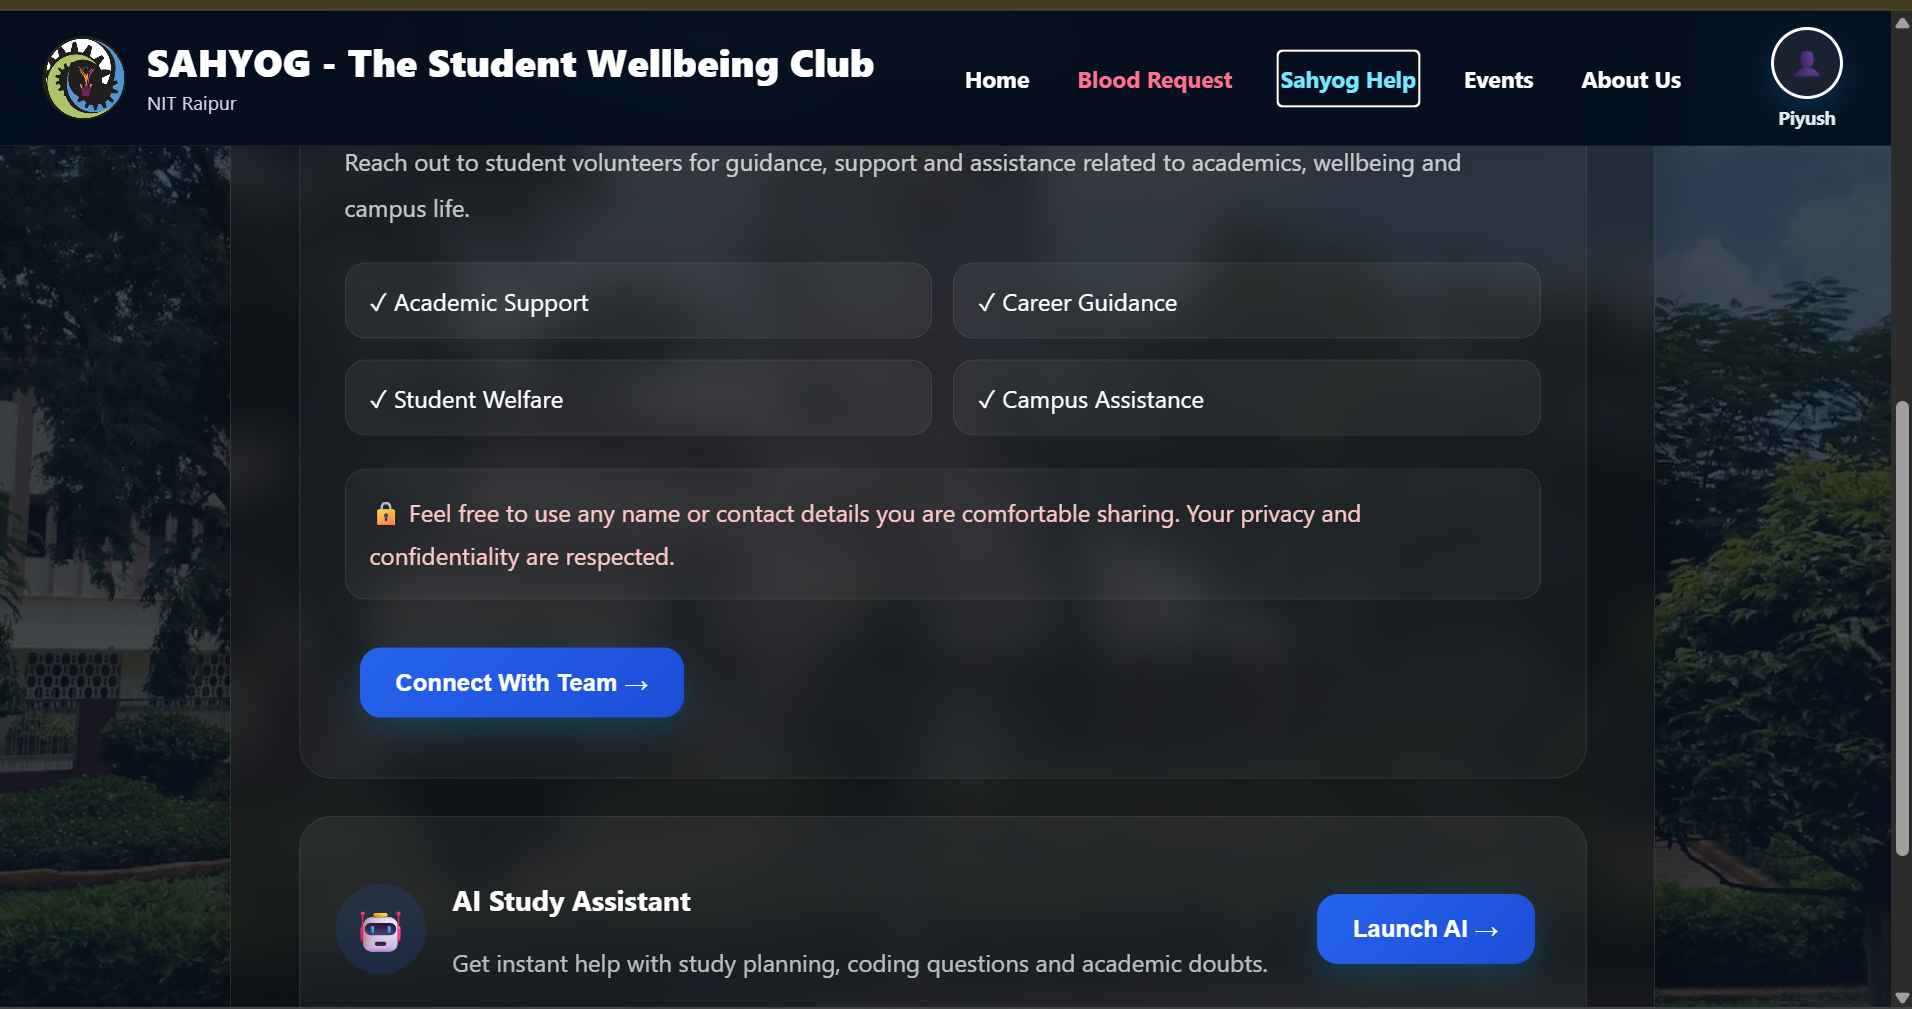
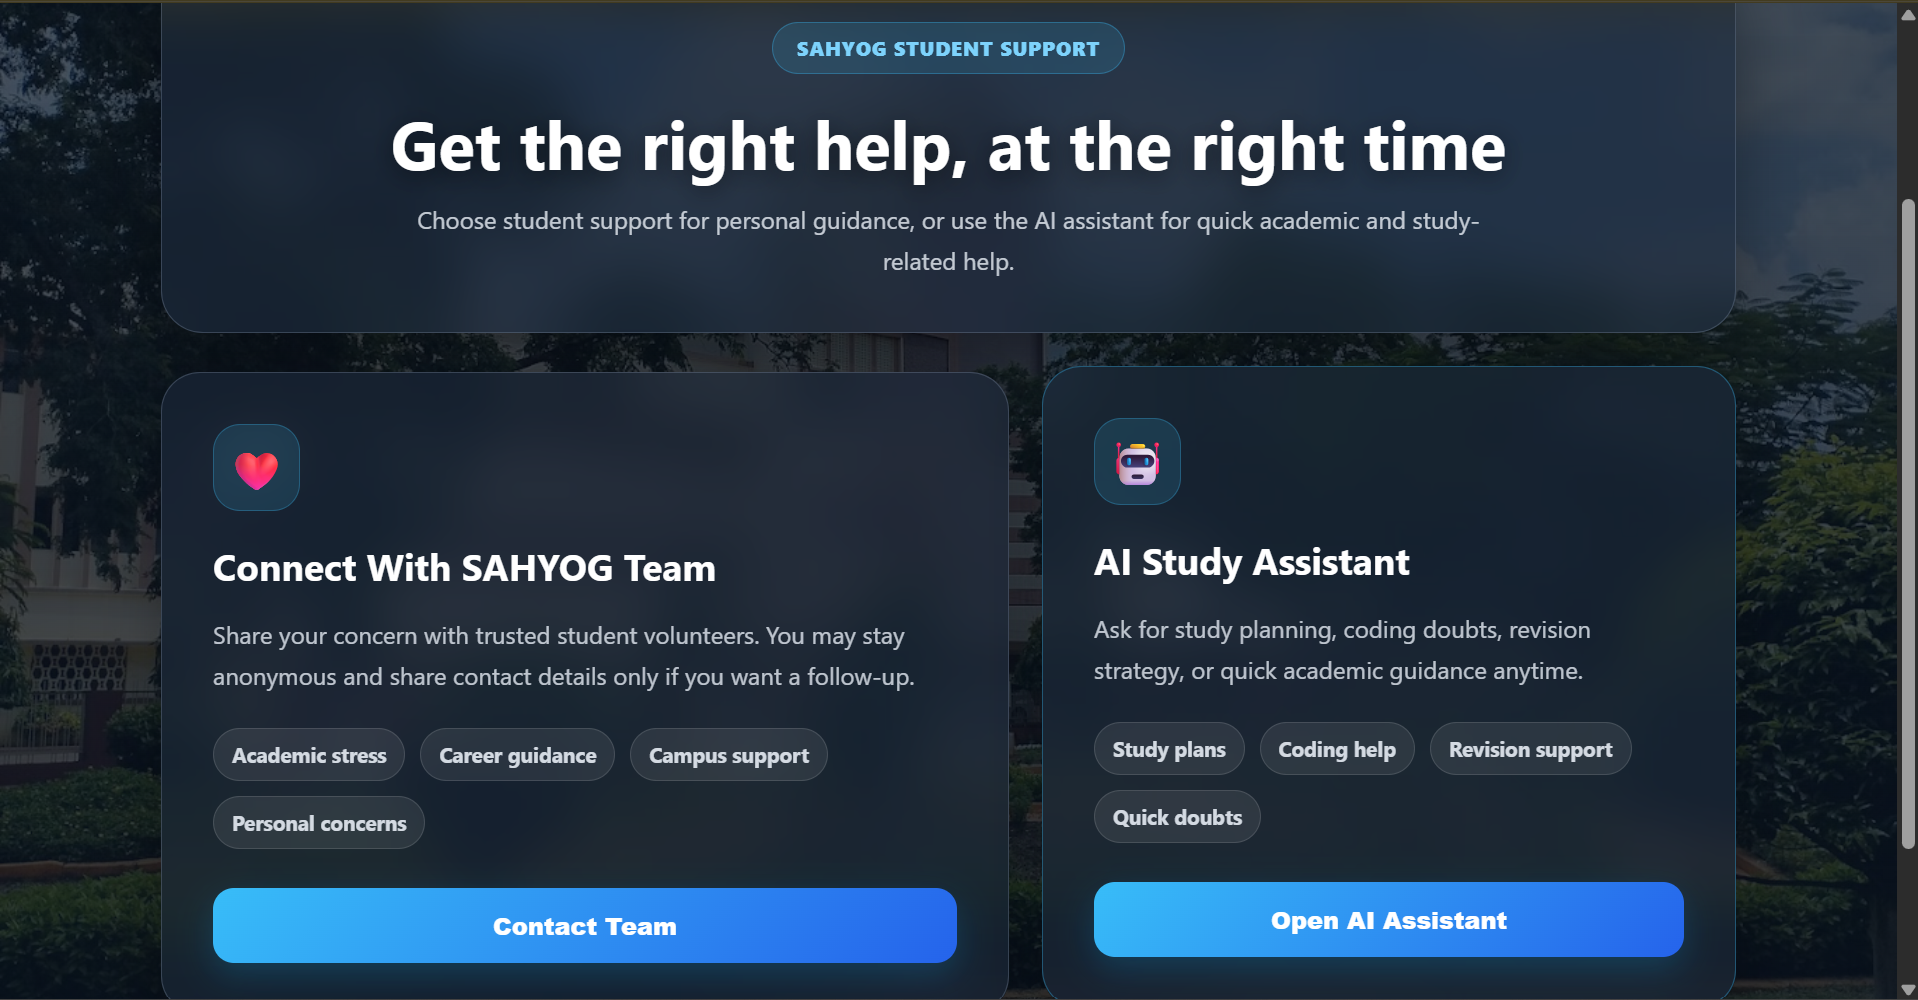
updated Documentation : ReadMe

diff --git a/README.md b/README.md
@@ -32,6 +32,18 @@ SAHYOG is the official digital portal of **SAHYOG — The Student Wellbeing Club
 
 ---
 
+## Key Highlights
+
+- Full Stack MERN Architecture
+- Google OAuth + JWT Authentication
+- AI-Powered Student Assistant (Groq LLaMA 3.3 70B)
+- Emergency Blood Assistance Workflow
+- Student Support & Wellbeing Platform
+- Announcement & Notification Center
+- Cloudinary Media Management
+- Brevo Email Automation
+- MongoDB Atlas + Vercel + Render Deployment
+
 ## Features
 
 ### Authentication & Security
@@ -41,6 +53,20 @@ SAHYOG is the official digital portal of **SAHYOG — The Student Wellbeing Club
 - Password hashing with bcrypt.js
 - Protected & public route architecture
 - Environment variable protection
+- Announcement creation protected via admin middleware
+- Announcement deletion protected via admin middleware
+- Notification APIs protected via JWT authentication
+
+### Announcement & Notification System
+
+- Admin announcement publishing dashboard
+- Announcement deletion system
+- Automatic notification generation
+- Notification bell with unread count
+- Dedicated notification center
+- Read / unread notification tracking
+- User-specific notifications
+- Admin broadcast communication system
 
 ### Academic Resources
 
@@ -63,17 +89,35 @@ SAHYOG is the official digital portal of **SAHYOG — The Student Wellbeing Club
 - Automated email alerts to SAHYOG team
 - Multi-recipient notification system
 
-### Community & Events
+### Community, Events & Engagement
 
 - Events gallery with image upload (Cloudinary)
-- Like/unlike interactions (JWT-protected)
-- Admin event management panel
+- Like / Unlike interactions (JWT protected)
+- Admin event publishing & deletion
+- Announcement publishing & deletion
+- Notification broadcasting system
+- Community engagement feed
 
 ### Profile & Navigation
 
 - User profile dashboard with avatar generation
 - Dropdown: My Profile, My Downloads, CR Contact, Team Sahyog, Campus View, Emergency Contacts
 - Admin-only export panel (CSV download of support responses)
+
+## Admin Management System
+
+The portal includes a dedicated administrator dashboard for managing academic resources, events, announcements, and student communication.
+
+### Admin Features
+
+- Upload PYQs and academic resources
+- Publish events with image hosting
+- Delete events
+- Create announcements
+- Delete announcements
+- Broadcast notifications
+- Export support requests (CSV)
+- Password-protected administrator access
 
 ---
 
@@ -125,43 +169,59 @@ sahyog-portal/
 ├── frontend/
 │   ├── public/
 │   ├── src/
-│   │   ├── assets/
-│   │   ├── components/
-│   │   │   ├── Navbar.jsx
-│   │   │   ├── Footer.jsx
-│   │   │   ├── AdminUpload.jsx
-│   │   │   ├── AdminEventUpload.jsx
-│   │   │   ├── FeedbackForm.jsx
-│   │   │   ├── LinkList.jsx
-│   │   │   └── UserCount.jsx
-│   │   ├── context/
-│   │   │   └── AuthContext.jsx
-│   │   ├── pages/
-│   │   │   ├── LoginPage.jsx
-│   │   │   ├── SignupPage.jsx
-│   │   │   ├── Home.jsx
-│   │   │   ├── AIHelpPage.jsx
-│   │   │   ├── HelpPage.jsx
-│   │   │   ├── SahyogSupportPage.jsx
-│   │   │   ├── EventsPage.jsx
-│   │   │   ├── BloodRequestPage.jsx
-│   │   │   ├── EmergencyBloodRequestPage.jsx
-│   │   │   ├── ProfilePage.jsx
-│   │   │   ├── AboutPage.jsx
-│   │   │   ├── AdminPage.jsx
-│   │   │   ├── BranchPage.jsx
-│   │   │   ├── SemesterPage.jsx
-│   │   │   ├── Viewer.jsx
-│   │   │   ├── ComingSoon.jsx
-│   │   │   ├── ProtectedRoute.jsx
-│   │   │   └── PublicOnlyRoute.jsx
-│   │   ├── api.js
-│   │   ├── constant.js
-│   │   ├── App.jsx
-│   │   ├── main.jsx
-│   │   └── styles.css
-│   ├── index.html
-│   └── package.json
+│   │
+│   ├── assets/
+│   │
+│   ├── components/
+│   │   ├── Navbar.jsx
+│   │   ├── Footer.jsx
+│   │   ├── AdminUpload.jsx
+│   │   ├── AdminEventUpload.jsx
+│   │   ├── AdminAnnouncementUpload.jsx
+│   │   ├── AdminAnnouncementList.jsx
+│   │   ├── NotificationBell.jsx
+│   │   ├── FeedbackForm.jsx
+│   │   ├── LinkList.jsx
+│   │   └── UserCount.jsx
+│   │
+│   ├── context/
+│   │   └── AuthContext.jsx
+│   │
+│   ├── pages/
+│   │   ├── LoginPage.jsx
+│   │   ├── SignupPage.jsx
+│   │   ├── Home.jsx
+│   │   ├── AIHelpPage.jsx
+│   │   ├── HelpPage.jsx
+│   │   ├── SahyogSupportPage.jsx
+│   │   ├── EventsPage.jsx
+│   │   ├── NotificationsPage.jsx
+│   │   ├── BloodRequestPage.jsx
+│   │   ├── EmergencyBloodRequestPage.jsx
+│   │   ├── ProfilePage.jsx
+│   │   ├── AboutPage.jsx
+│   │   ├── AdminPage.jsx
+│   │   ├── BranchPage.jsx
+│   │   ├── SemesterPage.jsx
+│   │   ├── Viewer.jsx
+│   │   ├── ComingSoon.jsx
+│   │   ├── ProtectedRoute.jsx
+│   │   └── PublicOnlyRoute.jsx
+│   │
+│   ├── styles2/
+│   │   ├── AuthPages.css
+│   │   ├── BloodRequestPage.css
+│   │   ├── HelpPages.css
+│   │   ├── ViewerPage.css
+│   │   ├── NotificationPage.css
+│   │   ├── NavbarNotification.css
+│   │   └── AdminAnnouncement.css
+│   │
+│   ├── api.js
+│   ├── constant.js
+│   ├── App.jsx
+│   ├── main.jsx
+│   └── styles.css
 │
 ├── backend/
 │   ├── models/
@@ -169,26 +229,49 @@ sahyog-portal/
 │   │   ├── Event.js
 │   │   ├── Link.js
 │   │   ├── Feedback.js
-│   │   └── SupportRequest.js
+│   │   ├── SupportRequest.js
+│   │   ├── Announcement.js
+│   │   └── Notification.js
+│   │
 │   ├── routes/
 │   │   ├── auth.js
 │   │   ├── aiRoutes.js
 │   │   ├── events.js
 │   │   ├── links.js
+│   │   ├── announcements.js
+│   │   ├── notifications.js
 │   │   ├── bloodRequest.js
 │   │   ├── feedback.js
 │   │   ├── supportRoutes.js
 │   │   ├── profile.js
 │   │   └── users.js
+│   │
 │   ├── middleware/
-│   │   ├── auth.js
-│   │   └── jwtAuth.js
+│   │   └── auth.js
+│   │
+│   ├── server.js
 │   └── package.json
 │
 └── README.md
 ```
 
 ---
+
+## Announcement & Notification Workflow
+
+Admin publishes announcement
+↓
+Announcement stored in MongoDB
+↓
+Notifications generated
+↓
+Unread count updated
+↓
+Navbar bell updated
+↓
+User opens notification center
+↓
+Notification marked as read
 
 ## Blood Request Workflow
 
@@ -294,6 +377,14 @@ VITE_GOOGLE_CLIENT_ID=
 
 ![Profile Dashboard](./frontend/src/assets/profilepage.png)
 
+### Notification Center
+
+![Notification Center](./frontend/src/assets/notification-center.png)
+
+### Admin Announcement Dashboard
+
+![Admin Dashboard](./frontend/src/assets/admin-announcement-dashboard.png)
+
 ### About Us
 
 ![About Us](./frontend/src/assets/aboutus.png)
@@ -328,12 +419,16 @@ _Designed & Developed for_
 - [x] Events Module with Like System
 - [x] Anonymous Support Form
 - [x] Admin Panel with CSV Export
+- [x] Notification Center
+- [x] Announcement Management System
+- [x] Admin Announcement Dashboard
+- [x] Notification Bell with Unread Count
+- [x] Read / Unread Notification Tracking
 - [ ] Chat History Persistence
 - [ ] CR Contact System
 - [ ] Team Sahyog Directory
 - [ ] Campus View
 - [ ] Emergency Contacts Page
-- [ ] Real-Time Notifications
 - [ ] Volunteer Management System
 - [ ] Admin Analytics Dashboard
 - [ ] Mobile App (React Native)